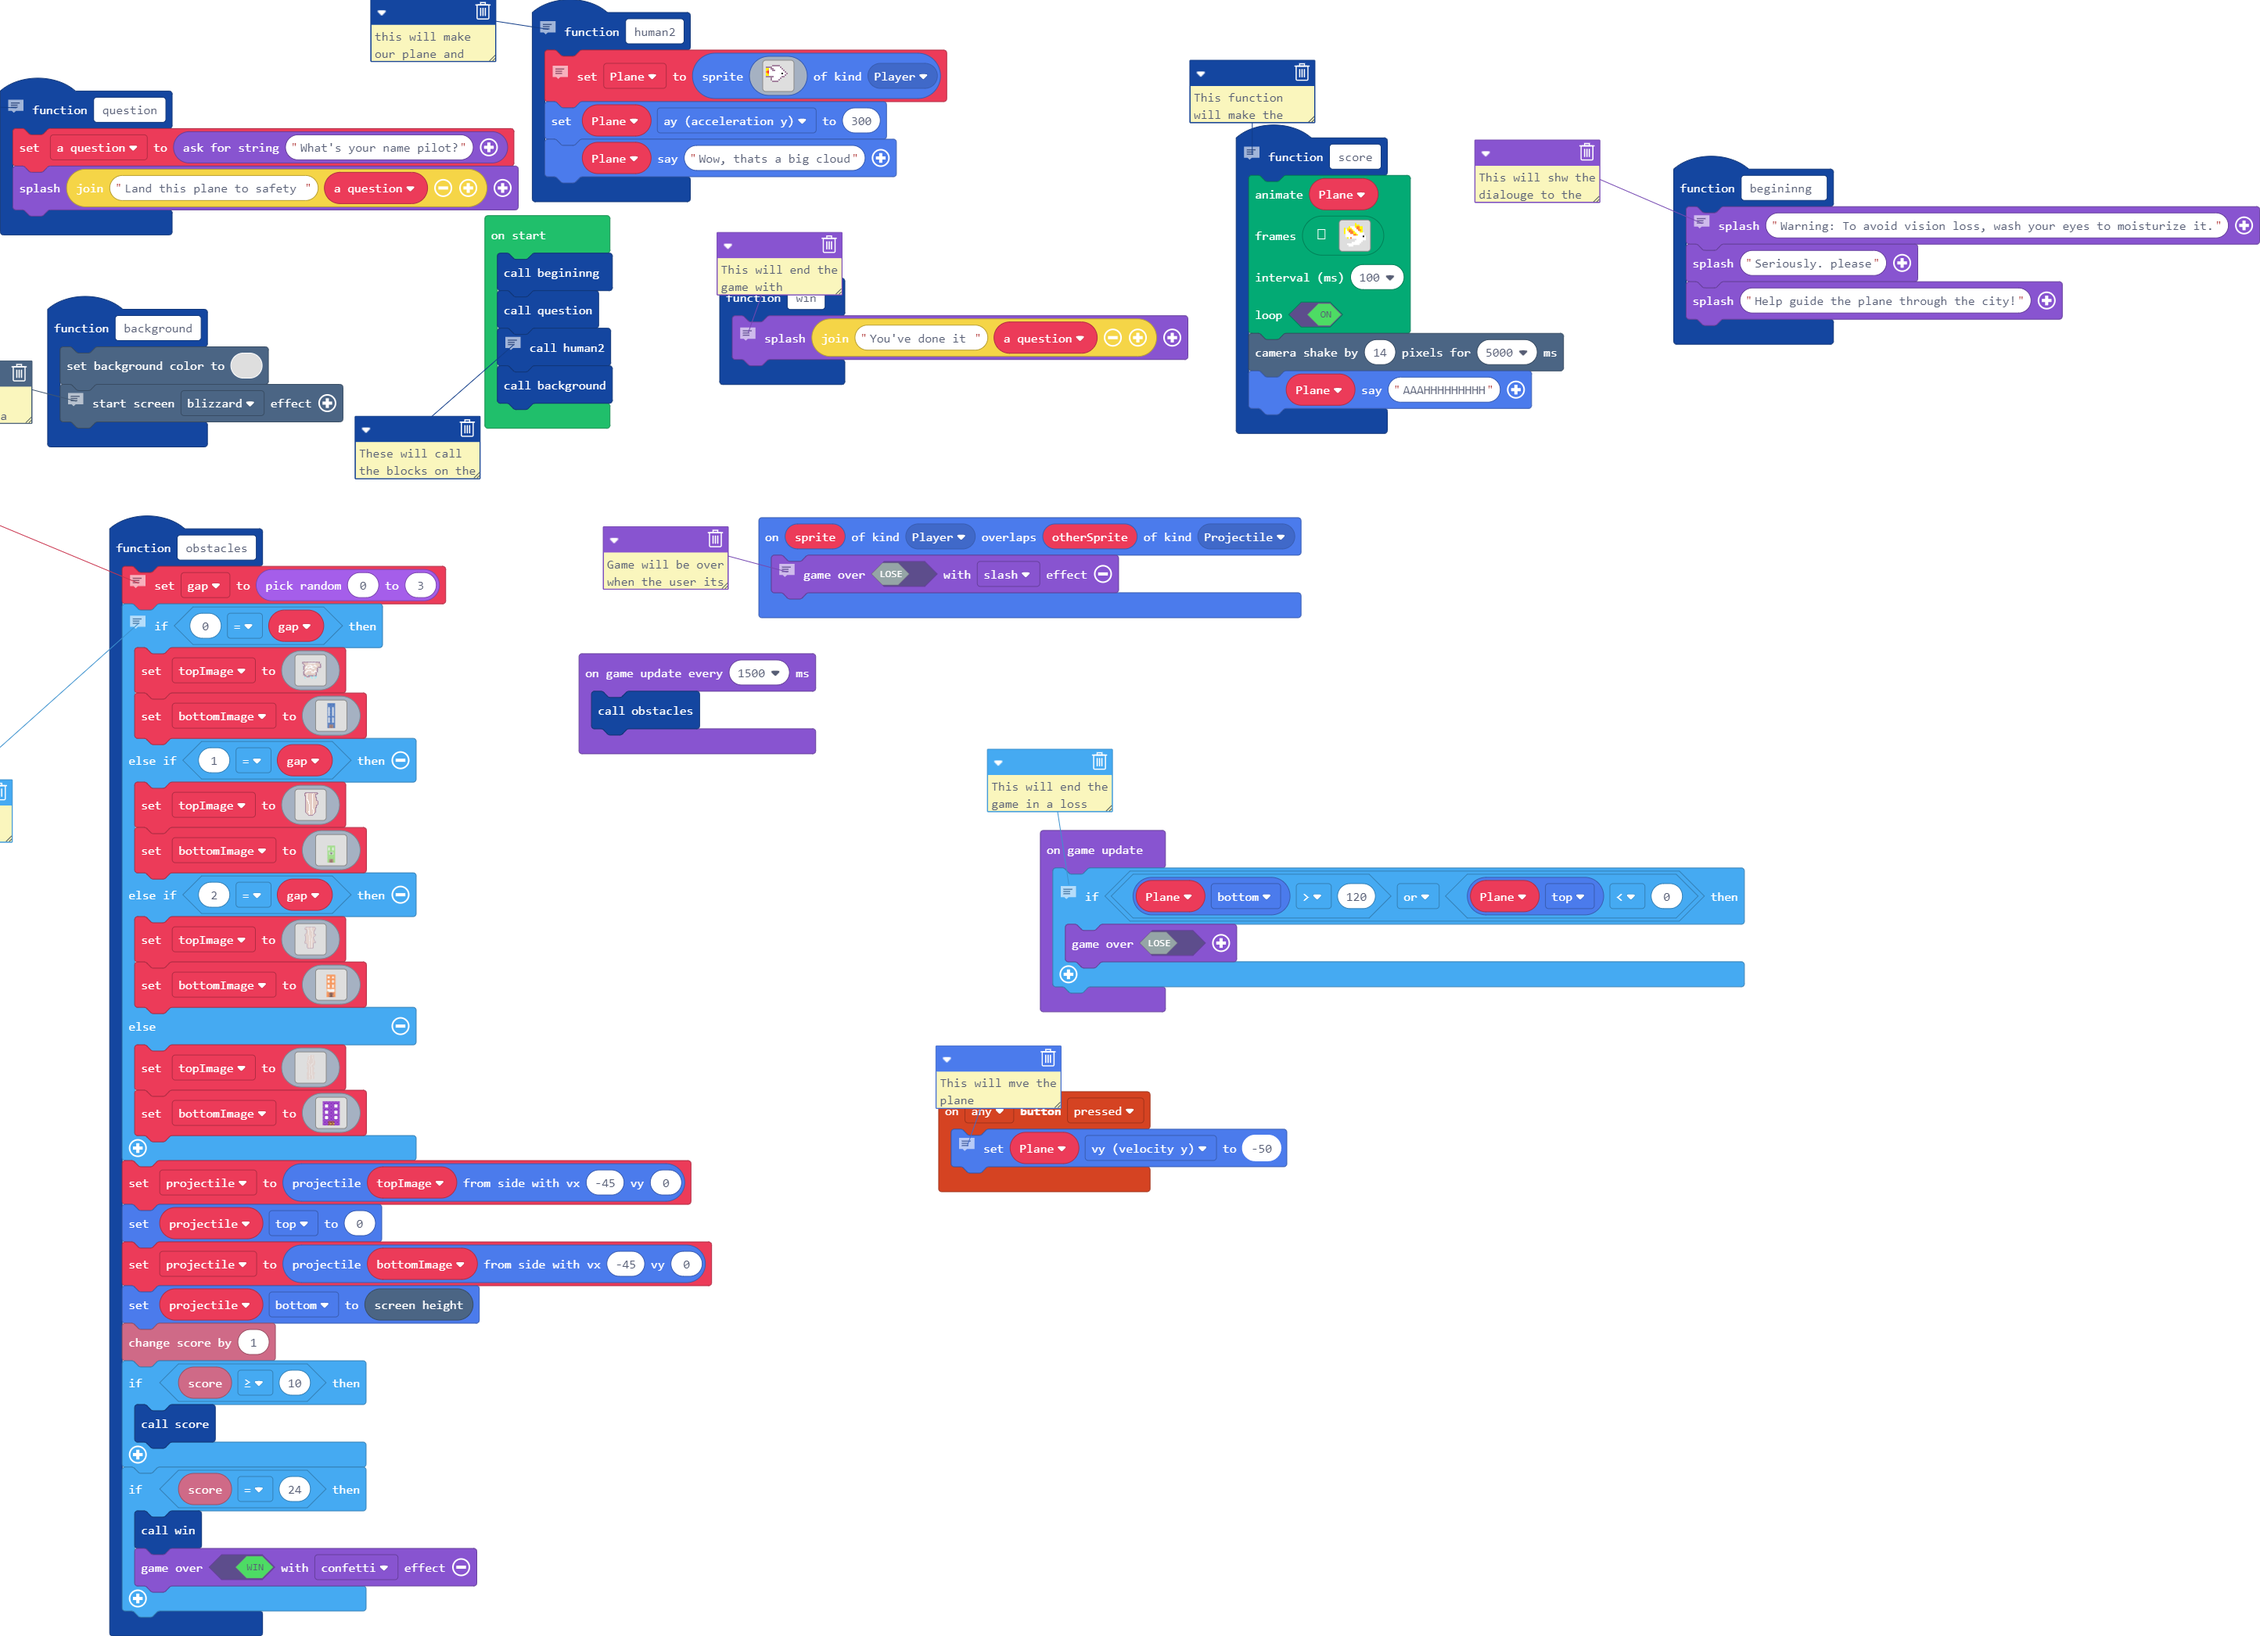
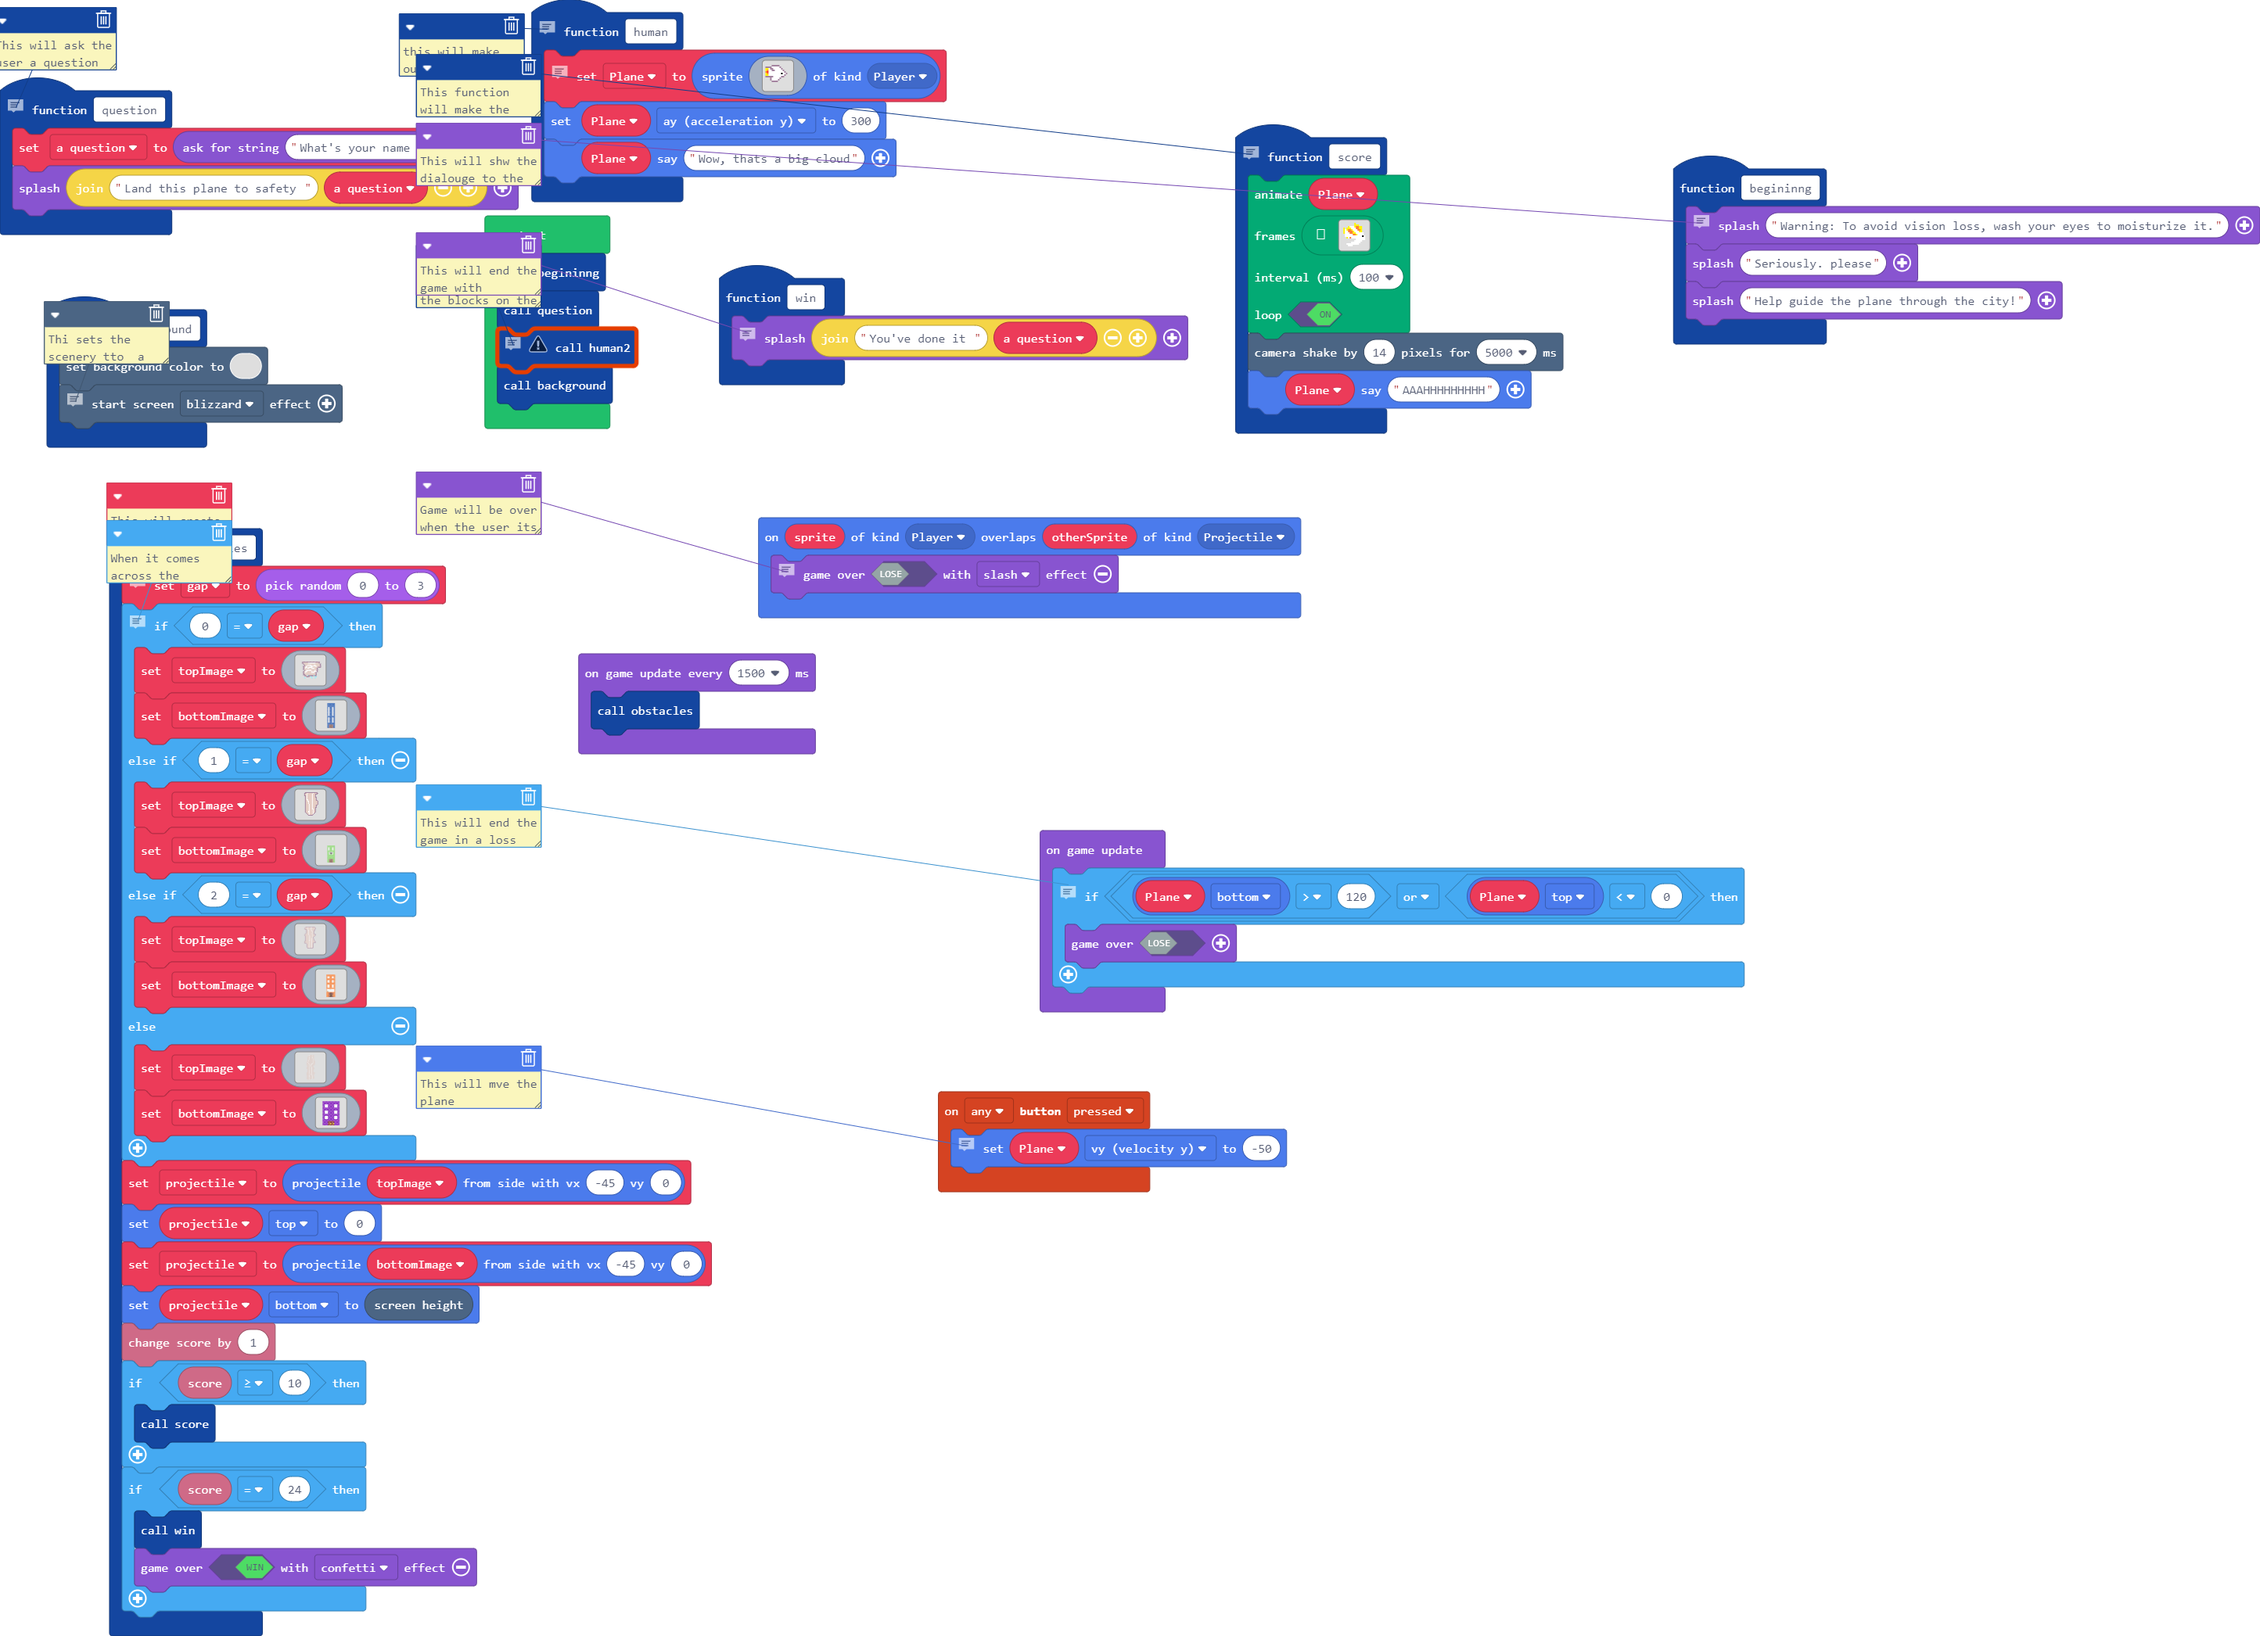
Update main.blocks, main.ts

diff --git a/main.ts b/main.ts
@@ -1,8 +1,17 @@
-// This will ask the user a question as they start to
-// fly the plane
-function question () {
-    a_question = game.askForString("What's your name pilot?")
-    game.splash("Land this plane to safety " + a_question)
+function begininng () {
+    // This will shw the dialouge to the user
+    game.splash("Warning: To avoid vision loss, wash your eyes to moisturize it.")
+    game.splash("Seriously. please")
+    game.splash("Help guide the plane through the city!")
+}
+function background () {
+    scene.setBackgroundColor(0)
+    // Thi sets the scenery tto  a blizzard
+    effects.blizzard.startScreenEffect()
+}
+function win () {
+    // This will end the game with dialogue at the end
+    game.splash("You've done it " + a_question)
 }
 // This function will make the sprite annimate into a
 // burning plane and will shake the camera
@@ -33,21 +42,21 @@ function score () {
     scene.cameraShake(14, 5000)
     Plane.say("AAAHHHHHHHHH")
 }
-function begininng_ () {
-    // This will shw the dialouge to the user
-    game.splash("Warning: To avoid vision loss, wash your eyes to moisturize it.")
-    game.splash("Seriously. please")
-    game.splash("Help guide the plane through the city!")
+sprites.onOverlap(SpriteKind.Player, SpriteKind.Projectile, function (sprite, otherSprite) {
+    // Game will be over when the user its the building or
+    // cloud
+    game.over(false, effects.slash)
+})
+// This will ask the user a question as they start to
+// fly the plane
+function question () {
+    a_question = game.askForString("What's your name pilot?")
+    game.splash("Land this plane to safety " + a_question)
 }
-function background () {
-    scene.setBackgroundColor(0)
-    // Thi sets the scenery tto  a blizzard
-    effects.blizzard.startScreenEffect()
-}
-function win () {
-    // This will end the game with dialogue at the end
-    game.splash("You've done it " + a_question)
-}
+controller.anyButton.onEvent(ControllerButtonEvent.Pressed, function () {
+    // This will mve the plane
+    Plane.vy = -50
+})
 function obstacles () {
     // This will create the images/walls
     gap = Math.randomRange(0, 3)
@@ -424,17 +433,8 @@ b d d d d d d d d 1 d d d d 1 d d d b b b b . .
         game.over(true, effects.confetti)
     }
 }
-sprites.onOverlap(SpriteKind.Player, SpriteKind.Projectile, function (sprite, otherSprite) {
-    // Game will be over when the user its the building or
-    // cloud
-    game.over(false, effects.slash)
-})
-controller.anyButton.onEvent(ControllerButtonEvent.Pressed, function () {
-    // This will mve the plane
-    Plane.vy = -50
-})
 // this will make our plane and sprite
-function human2 () {
+function human () {
     // Makes the character who ges through this game.
     Plane = sprites.create(img`
 . . . . . . . . . . . . . . . . 
@@ -463,7 +463,7 @@ let topImage: Image = null
 let gap = 0
 let Plane: Sprite = null
 let a_question = ""
-begininng_()
+begininng()
 question()
 // These will call the blocks on the inside of the
 // function
